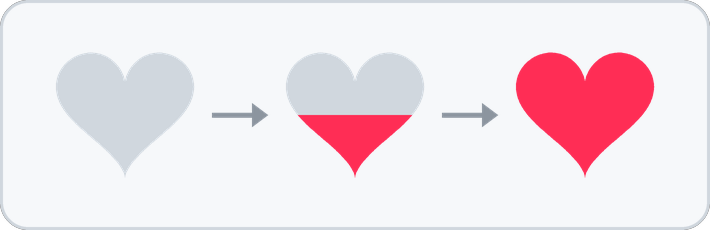
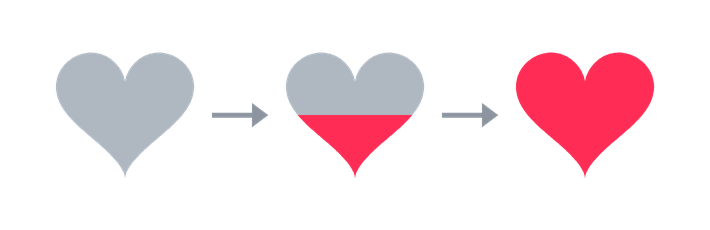
README: transparent progression and friendship images
Drop the card backgrounds from the evolution and friendship images. The
evolution image gets a light and a dark variant (served via <picture>) so
its text stays readable on either GitHub theme.

Changed region(s): [[0.0, 0.0, 1.0, 1.0], [0.062, 0.213, 0.2789, 0.7609], [0.4028, 0.213, 0.6197, 0.5174]]

diff --git a/README.md b/README.md
@@ -42,7 +42,10 @@ A personal to-do list with a gamified twist that lives in your Mac's menu bar. E
 Every completed task (or subtask) is **one level**, up to level 100. You start with three eggs: Bulbasaur, Charmander, and Squirtle. Your first completed task hatches the one you have active, and from there it evolves at its natural levels.
 
 <p align="center">
-  <img src="docs/images/evolution.png" width="760" alt="An egg hatches into Bulbasaur at level 1, evolves into Ivysaur at level 16, then Venusaur at level 32">
+  <picture>
+    <source media="(prefers-color-scheme: dark)" srcset="docs/images/evolution-dark.png">
+    <img src="docs/images/evolution.png" width="760" alt="An egg hatches into Bulbasaur at level 1, evolves into Ivysaur at level 16, then Venusaur at level 32">
+  </picture>
 </p>
 
 Charmander and Squirtle follow the same path, evolving at levels 16 and 36.
